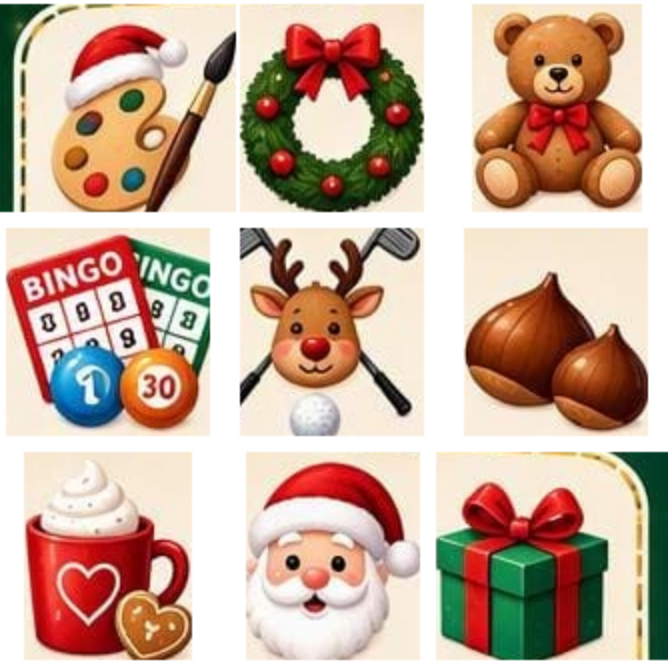
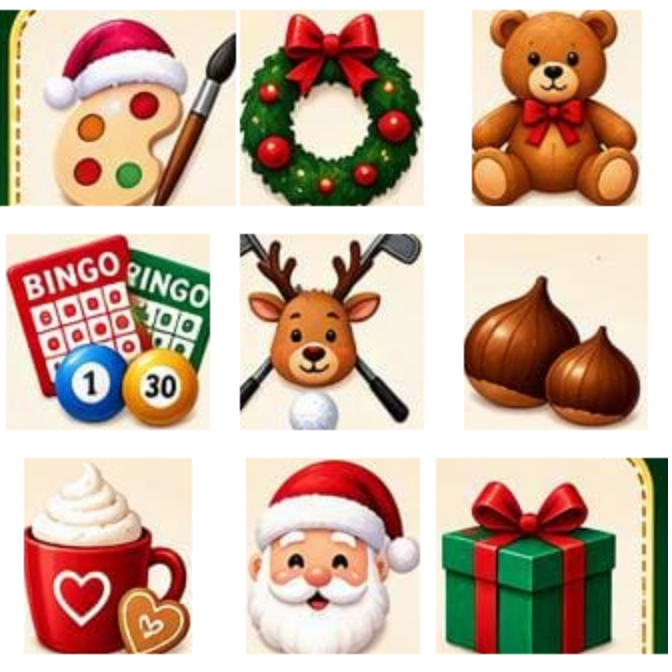
feat(navidad): cartel definitivo con Glitter Bar, solo efectivo y AMPA
Se cambia el cartel por la versión final (que añade el cartel de "solo
efectivo" y la colaboración con la AMPA) y se rehacen las ilustraciones
de los puestos porque la franja del cartel nuevo trae las etiquetas
dentro.

Cambios de contenido según el cartel oficial: aparece el Glitter Bar
junto a los tatoos, la adopción de peluches lleva certificado oficial y
se avisa de que solo se paga en efectivo.

diff --git a/public/navidad/index.html b/public/navidad/index.html
@@ -555,6 +555,8 @@
                 <li>📅 Viernes 11 de diciembre</li>
                 <li>🕒 De 16:00 a 20:00 h</li>
                 <li>📍 Pabellón Deportivo</li>
+                <li>💵 Solo efectivo</li>
+                <li>🤝 En colaboración con la AMPA</li>
             </ul>
 
             <div class="botones">
@@ -573,7 +575,7 @@
         <!-- PUESTOS -->
         <section class="panel panel-puestos" id="puestos">
             <div class="banner-stand">🎪 Puestos y actividades</div>
-            <p class="sub">Un mercadillo lleno de planes para toda la familia.</p>
+            <p class="sub">¡Y no te pierdas nuestras actividades y sorpresas!</p>
             <div class="puestos">
                 <article class="ticket-destacada">
                     <span class="ticket-num">🎡</span>
@@ -596,7 +598,7 @@
                     <span class="icono icono-3"></span>
                     <span class="ticket-num">3</span>
                     <h3>Adopción de peluches</h3>
-                    <p>Elige tu peluche, cómpralo y llévate su certificado de adopción.</p>
+                    <p>¡Ven a buscar a tu nuevo amigo y te lo llevamos a casa con su certificado de adopción oficial!</p>
                 </article>
                 <article class="ticket">
                     <span class="icono icono-4"></span>
@@ -625,7 +627,8 @@
                 <article class="ticket">
                     <span class="icono icono-8"></span>
                     <span class="ticket-num">8</span>
-                    <h3>Tatoos</h3>
+                    <h3>Glitter Bar y Tatoos</h3>
+                    <p>Un espacio lleno de brillo con tattoos navideños para lucir en la mejor época del año.</p>
                 </article>
                 <article class="ticket">
                     <span class="icono icono-9"></span>
@@ -672,7 +675,7 @@
     <!-- PIE -->
     <footer class="pie">
         <strong>¡La Navidad empieza en el Iturzaeta!</strong>
-        Organizado por las familias de 6.º curso. Toda la recaudación va destinada al viaje de fin de curso de los niños y niñas participantes en esta actividad.
+        Organizado por las familias de 6.º curso, en colaboración con la AMPA. Toda la recaudación va destinada al viaje de fin de curso de los niños y niñas participantes en esta actividad.
         <br>
         <a class="compartir" href="https://api.whatsapp.com/send?text=%F0%9F%8E%84%20%C2%A1Llega%20el%20II%20Mercadillo%20Iturnavide%C3%B1o%21%20%F0%9F%8E%84%0A%F0%9F%93%85%20Viernes%2011%20de%20diciembre%0A%F0%9F%95%92%20De%2016%3A00%20a%2020%3A00%20h%0A%F0%9F%93%8D%20Pabell%C3%B3n%20Deportivo%20del%20Colegio%20J.%20Iturzaeta%0A%0A%C2%A1Ven%20a%20vivir%20una%20tarde%20llena%20de%20magia%20con%20familia%20y%20amigos%21%20Ruleta%20con%20premios%2C%20bingo%2C%20talleres%2C%20casta%C3%B1as%20y%20tu%20pasaporte%20navide%C3%B1o.%0A%F0%9F%91%89%20edutika.es/navidad" target="_blank" rel="noopener">💬 Compartir con la familia</a>
     </footer>
